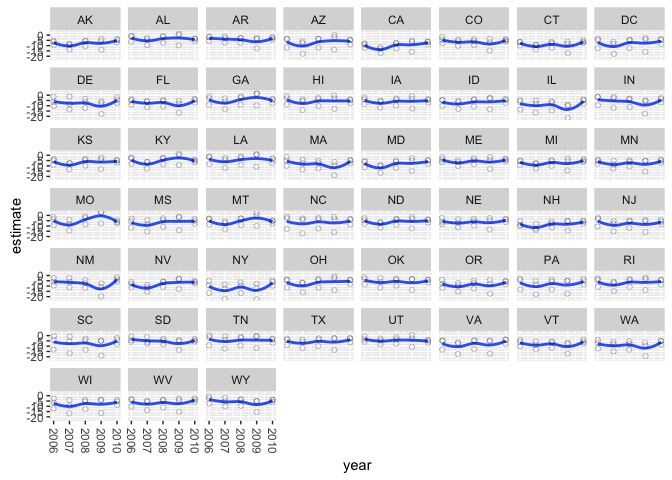
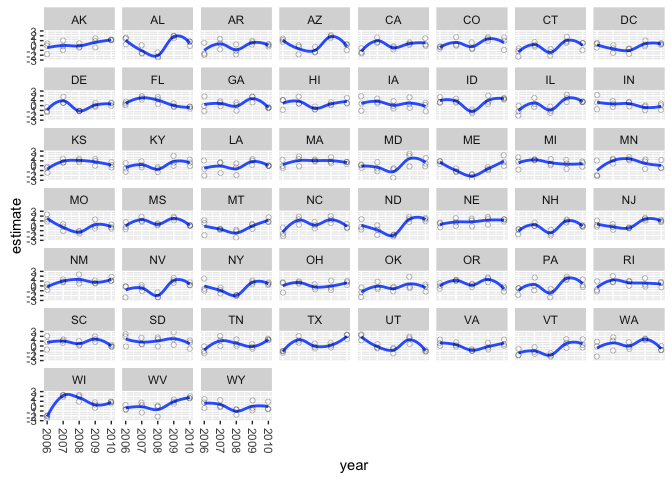
Refresh readme

Changed region(s): [[0.0312, 0.0, 1.0, 0.9688], [0.5, 0.9375, 0.5625, 1.0], [0.4062, 0.7812, 0.4375, 0.8125]]

diff --git a/README.md b/README.md
@@ -11,8 +11,6 @@ Installation
 
 ``` r
 devtools::install_github("jamesdunham/dgirt")
-#> Skipping install for github remote, the SHA1 (07bcc2cd) has not changed since last install.
-#>   Use `force = TRUE` to force installation
 ```
 
 Get updates by reinstalling. dgirt is in early stages and under development. See [NEWS](NEWS.md), last updated 2016-01-28.
@@ -66,23 +64,17 @@ This output omits verbose messages. `wrangle` returns a list of objects that `dg
 A short trial run is often a good idea.
 
 ``` r
-dgirt_estimates = dgirt(state_opinion_fmt, n_iter = 10, n_chain = 1)
+dgirt_estimates = dgirt(state_opinion_fmt, n_iter = 3, n_chain = 1)
 #> 
 #> SAMPLING FOR MODEL '605ba6820a8c93e8038f6394fbb2c3e1' NOW (CHAIN 1).
 #> 
-#> Chain 1, Iteration: 1 / 10 [ 10%]  (Warmup)
-#> Chain 1, Iteration: 2 / 10 [ 20%]  (Warmup)
-#> Chain 1, Iteration: 3 / 10 [ 30%]  (Warmup)
-#> Chain 1, Iteration: 4 / 10 [ 40%]  (Warmup)
-#> Chain 1, Iteration: 5 / 10 [ 50%]  (Warmup)
-#> Chain 1, Iteration: 6 / 10 [ 60%]  (Warmup)
-#> Chain 1, Iteration: 7 / 10 [ 70%]  (Warmup)
-#> Chain 1, Iteration: 8 / 10 [ 80%]  (Sampling)
-#> Chain 1, Iteration: 9 / 10 [ 90%]  (Sampling)
-#> Chain 1, Iteration: 10 / 10 [100%]  (Sampling)
-#> #  Elapsed Time: 2.03918 seconds (Warm-up)
-#> #                0.046519 seconds (Sampling)
-#> #                2.0857 seconds (Total)
+#> Chain 1, Iteration: 1 / 3 [ 33%]  (Warmup)
+#> Chain 1, Iteration: 2 / 3 [ 66%]  (Warmup)
+#> Chain 1, Iteration: 3 / 3 [100%]  (Sampling)# 
+#> #  Elapsed Time: 0.116355 seconds (Warm-up)
+#> #                0.013406 seconds (Sampling)
+#> #                0.129761 seconds (Total)
+#> #
 ```
 
 We omit verbose messages here. Now, a longer run:
@@ -103,12 +95,12 @@ head(dgirt_extract$theta_bar)
 #> 
 #>    Var1  Var2      value  year  state   race
 #>   (int) (int)      (dbl) (dbl) (fctr) (fctr)
-#> 1     1     1 -6.2806986  2006     AK  white
-#> 2     2     1 -8.3272319  2007     AK  white
-#> 3     3     1 -5.8700206  2008     AK  white
-#> 4     4     1 -5.8248482  2009     AK  white
-#> 5     5     1 -4.4962816  2010     AK  white
-#> 6     1     2 -0.8074506  2006     AL  white
+#> 1     1     1 -1.7944927  2006     AK  white
+#> 2     2     1  1.0435053  2007     AK  white
+#> 3     3     1  0.4599502  2008     AK  white
+#> 4     4     1 -0.4227409  2009     AK  white
+#> 5     5     1  1.0708391  2010     AK  white
+#> 6     1     2  0.2298131  2006     AL  white
 ```
 
 `cmdstan`
@@ -121,20 +113,20 @@ First, a trial run.
 ``` r
 optimize_estimates = dgirt(state_opinion_fmt, n_iter = 20, method = "optimize",
   init_range = 0.5)
-#> Started: Thu Jan 28 13:26:00 2016
+#> Started: Tue Feb  2 21:47:17 2016
 #> Reading results from disk.
-#> Ended: Thu Jan 28 13:26:02 2016
+#> Ended: Tue Feb  2 21:47:19 2016
 head(optimize_estimates$theta_bar)
 #> Source: local data frame [6 x 5]
 #> 
-#>           param       value  year  state   race
-#>          (fctr)       (dbl) (dbl) (fctr) (fctr)
-#> 1 theta_bar.1.1 -0.44094300  2006     AK  white
-#> 2 theta_bar.2.1 -0.69100500  2007     AK  white
-#> 3 theta_bar.3.1 -0.14584500  2008     AK  white
-#> 4 theta_bar.4.1  0.00806882  2009     AK  white
-#> 5 theta_bar.5.1 -0.10939000  2010     AK  white
-#> 6 theta_bar.1.2  0.15690400  2006     AL  white
+#>           param      value  year  state   race
+#>          (fctr)      (dbl) (dbl) (fctr) (fctr)
+#> 1 theta_bar.1.1  0.0784473  2006     AK  white
+#> 2 theta_bar.2.1  0.2475680  2007     AK  white
+#> 3 theta_bar.3.1  0.1803990  2008     AK  white
+#> 4 theta_bar.4.1 -0.1048420  2009     AK  white
+#> 5 theta_bar.5.1  0.0518279  2010     AK  white
+#> 6 theta_bar.1.2 -0.4134330  2006     AL  white
 ```
 
 And now a longer run.
@@ -167,7 +159,7 @@ optimize_estimates$theta_bar$race = factor(optimize_estimates$theta_bar$race, la
 optimize_estimates$theta_bar$year = as.integer(optimize_estimates$theta_bar$year)
 ```
 
-Now we pass these data, the same `groups` argument as used originally with `wrangle`, and a vector of variable names as `strata` that define aggregations of interest in the data. For exposition we'll set two optional variables. We give the name of the variable in the demographic data for the population proportion as `prop_var`. And passing a variable name to `check_proportions` will test the demographic data for whether population proportions sum to one within groups defined by the values of that variable.
+Now we pass these data, the same `groups` argument as used originally with `wrangle`, and a vector of variable names as `strata` that define aggregations of interest in the data. For exposition we'll set two optional variables. We give the name of the variable in the demographic data for the population proportion as `prop_var`. And passing a variable name to `summands` will test the demographic data for whether population proportions sum to one within groups defined by the values of that variable.
 
 ``` r
 dgirt_extract$theta_bar$race = factor(dgirt_extract$theta_bar$race, labels = c("White or Hispanic", "Black", "Other"))
@@ -178,7 +170,7 @@ group_means = poststratify(
   groups = c("race"),
   strata = c("state", "year"),
   prop_var = "proportion",
-  check_proportions = "year")
+  summands = "year")
 #> Warning in poststratify(group_means = dgirt_extract$theta_bar, targets =
 #> state_demographics, : More rows of proportions than combinations of its
 #> strata and grouping variables. Summing proportions over other variables.
@@ -187,12 +179,12 @@ head(group_means)
 #> 
 #>    state  year       value
 #>   (fctr) (int)       (dbl)
-#> 1     AK  2006 -0.01401868
-#> 2     AK  2007 -0.01974274
-#> 3     AK  2008 -0.01353382
-#> 4     AK  2009 -0.01287266
-#> 5     AK  2010 -0.01036648
-#> 6     AL  2006 -0.03600276
+#> 1     AK  2006 -1.30783959
+#> 2     AK  2007  0.53182331
+#> 3     AK  2008  0.21339533
+#> 4     AK  2009 -0.04634266
+#> 5     AK  2010  1.10630610
+#> 6     AL  2006  0.60320186
 ```
 
 The same approach works after `dgirt()` if `method = "optimize")`.
@@ -206,21 +198,21 @@ optimize_group_means = poststratify(
   groups = c("race"),
   strata = c("state", "year"),
   prop_var = "proportion",
-  check_proportions = "year")
+  summands = "year")
 #> Warning in poststratify(group_means = optimize_estimates$theta_bar, targets
 #> = state_demographics, : More rows of proportions than combinations of its
 #> strata and grouping variables. Summing proportions over other variables.
 head(optimize_group_means)
 #> Source: local data frame [6 x 3]
 #> 
-#>    state  year         value
-#>   (fctr) (int)         (dbl)
-#> 1     AK  2006 -0.0009395527
-#> 2     AK  2007 -0.0012730972
-#> 3     AK  2008 -0.0002819233
-#> 4     AK  2009  0.0001397374
-#> 5     AK  2010 -0.0003722671
-#> 6     AL  2006 -0.0036041118
+#>    state  year       value
+#>   (fctr) (int)       (dbl)
+#> 1     AK  2006  0.16184231
+#> 2     AK  2007  0.22364362
+#> 3     AK  2008  0.19527524
+#> 4     AK  2009 -0.07662118
+#> 5     AK  2010  0.09557222
+#> 6     AL  2006 -0.05623629
 ```
 
 `plot_means`
